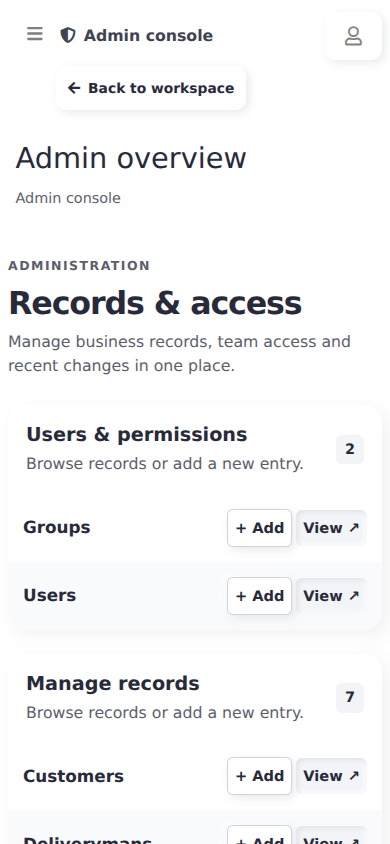
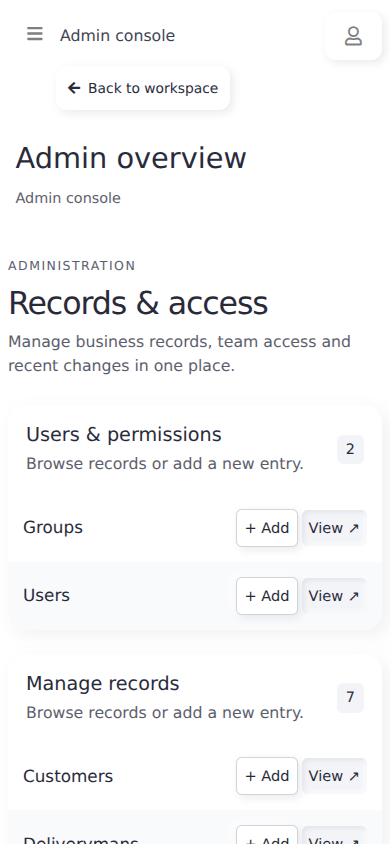
Lighten Admin typography and remove shield decoration

diff --git a/lafarge/static/css/admin_overrides.css b/lafarge/static/css/admin_overrides.css
@@ -13,6 +13,7 @@
 /* Visual theme only: retain Jazzmin's form, inline and modal behavior below. */
 body {
     font-family: var(--erp-font);
+    font-weight: 400;
     color: var(--erp-text);
 }
 :is(.content-wrapper, .app-main),
@@ -50,12 +51,12 @@ body {
 }
 :is(.content-wrapper, .app-main) .card-title,
 :is(.content-header, .app-content-header) h1 {
-    font-weight: 600;
+    font-weight: 500;
 }
 :is(.content-wrapper, .app-main) .btn,
 .login-box .btn {
     border-radius: var(--erp-control-radius);
-    font-weight: 600;
+    font-weight: 500;
 }
 :is(.content-wrapper, .app-main) .btn-primary,
 .login-box .btn-primary {
@@ -94,7 +95,7 @@ body {
 :is(.content-wrapper, .app-main) .table thead th {
     background: var(--erp-subtle);
     color: var(--erp-muted);
-    font-weight: 600;
+    font-weight: 500;
     border-color: var(--erp-border);
 }
 :is(.content-wrapper, .app-main) .table td {
@@ -232,7 +233,7 @@ body {
 :is(.main-sidebar, .app-sidebar) .brand-link {
     color: var(--erp-text) !important;
     border-color: var(--erp-border);
-    font-weight: 650;
+    font-weight: 500;
 }
 :is(.main-sidebar, .app-sidebar) :is(.nav-link, .nav-header, .user-panel a) {
     color: var(--erp-primary) !important;
@@ -308,21 +309,18 @@ body { font-size: 0.9rem; }
     color: var(--erp-text);
     font-size: 1.4rem;
     line-height: 1.2;
-    font-weight: 700 !important;
+    font-weight: 600 !important;
     letter-spacing: -0.04em;
 }
 .admin-brand-copy { display: flex; flex-direction: column; gap: 4px; }
 :is(.main-sidebar, .app-sidebar) .admin-brand-caption {
-    display: inline-flex;
-    align-items: center;
-    gap: 5px;
+    display: block;
     color: var(--erp-admin-accent);
     font-size: 0.65rem;
     line-height: 1.4;
     font-weight: 500;
     letter-spacing: 0;
 }
-.admin-brand-caption .nav-icon { width: 13px; height: 13px; flex: 0 0 13px; }
 #jazzy-sidebar > .sidebar {
     display: flex;
     flex-direction: column;
@@ -346,7 +344,7 @@ body { font-size: 0.9rem; }
     box-shadow: var(--erp-admin-raised);
     border-radius: var(--erp-control-radius);
     font-size: 0.72rem;
-    font-weight: 600;
+    font-weight: 500;
     transition: background-color 140ms ease, box-shadow 140ms ease;
 }
 .admin-workspace-return .nav-icon { width: 18px; height: 18px; flex: 0 0 18px; }
@@ -376,7 +374,7 @@ a.admin-user-link:hover { background: var(--erp-subtle); }
     border-radius: 50%;
     overflow: hidden;
     font-size: 0.72rem;
-    font-weight: 600;
+    font-weight: 500;
 }
 .admin-user-avatar img { width: 100%; height: 100%; object-fit: cover; }
 .admin-user-name { min-width: 0; overflow: hidden; text-overflow: ellipsis; white-space: nowrap; }
@@ -399,13 +397,8 @@ a.admin-user-link:hover { background: var(--erp-subtle); }
     height: auto;
     color: var(--erp-admin-accent) !important;
     font-size: 0.82rem;
-    font-weight: 650;
+    font-weight: 500;
     white-space: nowrap;
-}
-#jazzy-navbar > .navbar-nav:first-child > .nav-item:nth-child(2) > .nav-link::before {
-    content: "\f3ed";
-    font-family: "Font Awesome 5 Free";
-    font-weight: 900;
 }
 #jazzy-navbar > .navbar-nav:first-child > .nav-item:nth-child(3) > .nav-link {
     display: inline-flex;
@@ -419,7 +412,7 @@ a.admin-user-link:hover { background: var(--erp-subtle); }
     color: var(--erp-primary);
     box-shadow: var(--erp-raised);
     font-size: 0.72rem;
-    font-weight: 600;
+    font-weight: 500;
     white-space: nowrap;
 }
 #jazzy-navbar > .navbar-nav:first-child > .nav-item:nth-child(3) > .nav-link::before {
@@ -480,7 +473,7 @@ a.admin-user-link:hover { background: var(--erp-subtle); }
     white-space: normal;
     font-size: 0.61rem;
     line-height: 1.6;
-    font-weight: 600;
+    font-weight: 500;
     text-transform: uppercase;
     letter-spacing: 0.1em;
     padding: 22px 12px 8px;
@@ -499,7 +492,7 @@ a.admin-user-link:hover { background: var(--erp-subtle); }
     line-height: 1.4;
     transition: background-color 140ms ease, box-shadow 140ms ease;
 }
-:is(.main-sidebar, .app-sidebar) :is(.nav-sidebar, .sidebar-menu) .nav-link.active { font-weight: 650; }
+:is(.main-sidebar, .app-sidebar) :is(.nav-sidebar, .sidebar-menu) .nav-link.active { font-weight: 500; }
 :is(.main-sidebar, .app-sidebar) :is(.nav-sidebar, .sidebar-menu) .nav-icon {
     width: 20px;
     height: 20px;
@@ -534,7 +527,7 @@ a.admin-user-link:hover { background: var(--erp-subtle); }
 :is(.content-header, .app-content-header) { padding: 30px 24px 22px; }
 :is(.content-header, .app-content-header) :is(h1, h3) {
     font-size: 2rem;
-    font-weight: 750;
+    font-weight: 500;
     letter-spacing: -0.04em;
     color: var(--erp-text);
 }
@@ -547,7 +540,7 @@ a.admin-user-link:hover { background: var(--erp-subtle); }
 :is(.content-wrapper, .app-main) a:not(.btn):not(.nav-link) { color: var(--erp-primary); }
 :is(.content-wrapper, .app-main) .card { margin-bottom: 24px; }
 :is(.content-wrapper, .app-main) .card-body { padding: 24px; }
-:is(.content-wrapper, .app-main) .card-title { font-size: 1rem; font-weight: 700; }
+:is(.content-wrapper, .app-main) .card-title { font-size: 1rem; font-weight: 500; }
 #change-list-filters {
     background: var(--erp-surface);
     border: 0;
@@ -573,6 +566,7 @@ a.admin-user-link:hover { background: var(--erp-subtle); }
 #changelist .results { overflow-x: auto; }
 #result_list { margin-bottom: 16px; }
 #result_list thead th {
+    font-weight: 500;
     padding: 14px 16px;
     text-transform: none;
     letter-spacing: 0;
@@ -580,6 +574,7 @@ a.admin-user-link:hover { background: var(--erp-subtle); }
     border-bottom: 0;
 }
 #result_list tbody :is(td, th) {
+    font-weight: 400;
     padding: 14px 16px;
     vertical-align: middle;
     border-bottom: 0;
@@ -611,10 +606,10 @@ a.admin-user-link:hover { background: var(--erp-subtle); }
 }
 .select2-container--default .select2-selection--single .select2-selection__arrow { height: 38px; }
 .change-form :is(.form-group, .form-row) { margin-bottom: 20px; }
-.change-form label { font-size: 0.85rem; font-weight: 600; color: var(--erp-text); }
+:root .change-form label { font-size: 0.85rem; font-weight: 400; color: var(--erp-text); }
 .change-form :is(.help, .help-block, .helptext, .text-muted) { font-size: 0.78rem; color: var(--erp-muted) !important; }
 .change-form .nav-tabs { border: 0; gap: 8px; margin-bottom: 24px; }
-.change-form .nav-tabs .nav-link { padding: 12px 16px; border: 0; color: var(--erp-muted); font-weight: 600; }
+.change-form .nav-tabs .nav-link { padding: 12px 16px; border: 0; color: var(--erp-muted); font-weight: 500; }
 .change-form .nav-tabs .nav-link.active {
     color: var(--erp-primary);
     background: var(--erp-primary-soft);
@@ -667,24 +662,24 @@ a.admin-user-link:hover { background: var(--erp-subtle); }
 /* Admin landing page: permission-aware modules and a readable activity feed. */
 .admin-overview { width: 100%; min-width: 0; padding: 0 12px 28px; }
 .admin-overview-intro { display: flex; align-items: center; justify-content: space-between; flex-wrap: wrap; gap: 20px; margin: 0 0 28px; }
-.admin-eyebrow { display: block; margin-bottom: 8px; color: var(--erp-muted); font-size: 0.65rem; font-weight: 700; letter-spacing: 0.12em; text-transform: uppercase; }
-.admin-overview-intro h2 { font-size: 1.65rem; font-weight: 750; letter-spacing: -0.035em; margin: 0 0 8px; }
+.admin-eyebrow { display: block; margin-bottom: 8px; color: var(--erp-muted); font-size: 0.65rem; font-weight: 500; letter-spacing: 0.12em; text-transform: uppercase; }
+.admin-overview-intro h2 { font-size: 1.65rem; font-weight: 500; letter-spacing: -0.035em; margin: 0 0 8px; }
 .admin-overview-intro p, .admin-panel-heading p { color: var(--erp-muted); font-size: 0.82rem; margin: 0; }
 .admin-overview-grid { display: grid; grid-template-columns: minmax(0, 1.8fr) minmax(290px, 1fr); gap: 24px; align-items: start; }
 .admin-modules { display: grid; gap: 24px; min-width: 0; }
 .admin-module { min-width: 0; background: var(--erp-surface); border: 0; border-radius: var(--erp-radius); box-shadow: var(--erp-shadow); overflow: hidden; }
 .admin-panel-heading { padding: 22px; border-bottom: 0; display: flex; justify-content: space-between; align-items: center; gap: 16px; }
-.admin-panel-heading h2 { font-size: 1rem; font-weight: 700; margin: 0 0 6px; }
-.admin-count { background: var(--erp-primary-soft); color: var(--erp-primary); border-radius: 6px; font-size: 0.75rem; font-weight: 700; padding: 4px 9px; }
+.admin-panel-heading h2 { font-size: 1rem; font-weight: 500; margin: 0 0 6px; }
+.admin-count { background: var(--erp-primary-soft); color: var(--erp-primary); border-radius: 6px; font-size: 0.75rem; font-weight: 400; padding: 4px 9px; }
 .admin-model-row { display: flex; align-items: center; gap: 14px; padding: 17px 22px; border-bottom: 0; }
 .admin-model-row:nth-child(even) { background: var(--erp-subtle); }
 .admin-model-row:last-child { border-bottom: 0; }
 .admin-model-row:hover { background: var(--erp-subtle); }
-.admin-model-icon { display: grid; place-items: center; flex: 0 0 34px; height: 34px; border-radius: 7px; background: var(--erp-primary-soft); color: var(--erp-primary); font-size: 0.8rem; font-weight: 700; }
-.admin-model-name { flex: 1; min-width: 0; overflow-wrap: anywhere; font-size: 0.875rem; font-weight: 600; }
+.admin-model-icon { display: grid; place-items: center; flex: 0 0 34px; height: 34px; border-radius: 7px; background: var(--erp-primary-soft); color: var(--erp-primary); font-size: 0.8rem; font-weight: 500; }
+.admin-model-name { flex: 1; min-width: 0; overflow-wrap: anywhere; font-size: 0.875rem; font-weight: 400; }
 .admin-model-name a { color: var(--erp-text) !important; }
 .admin-model-actions { display: flex; align-items: center; gap: 10px; flex-shrink: 0; }
-.admin-model-actions a { padding: 7px 10px; border-radius: 6px; font-size: 0.76rem; font-weight: 600; white-space: nowrap; }
+.admin-model-actions a { padding: 7px 10px; border-radius: 6px; font-size: 0.76rem; font-weight: 500; white-space: nowrap; }
 .admin-add { border: 1px solid var(--erp-control-border); background: var(--erp-surface); box-shadow: var(--erp-raised); }
 .admin-browse { background: var(--erp-primary-soft); box-shadow: var(--erp-inset); }
 .admin-activity-list { list-style: none; padding: 0; margin: 0; }
@@ -692,10 +687,10 @@ a.admin-user-link:hover { background: var(--erp-subtle); }
 .admin-activity-list li + li { border-top: 1px solid var(--erp-border); }
 .admin-activity-list li:last-child { border-bottom: 0; }
 .admin-activity-meta { display: flex; flex-wrap: wrap; gap: 8px; justify-content: space-between; align-items: center; margin-bottom: 10px; }
-.admin-event { font-size: 0.65rem; font-weight: 700; color: var(--erp-primary); background: var(--erp-primary-soft); padding: 3px 7px; border-radius: 4px; }
+.admin-event { font-size: 0.65rem; font-weight: 400; color: var(--erp-primary); background: var(--erp-primary-soft); padding: 3px 7px; border-radius: 4px; }
 .admin-event-delete { color: var(--erp-danger); background: var(--erp-subtle); }
 .admin-activity-meta time { color: var(--erp-muted); font-size: 0.68rem; }
-.admin-activity-object { font-size: 0.85rem; font-weight: 600; overflow-wrap: anywhere; }
+.admin-activity-object { font-size: 0.85rem; font-weight: 400; overflow-wrap: anywhere; }
 .admin-activity-type { font-size: 0.7rem; color: var(--erp-muted); }
 .admin-activity-list p { font-size: 0.77rem; color: var(--erp-muted); line-height: 1.6; margin: 8px 0 0; overflow-wrap: anywhere; }
 .admin-empty { padding: 28px 22px; color: var(--erp-muted); font-size: 0.85rem; }
@@ -739,7 +734,7 @@ body .select2-container--admin-autocomplete .select2-selection--single .select2-
 }
 body .select2-container--default .select2-selection--multiple .select2-selection__choice { background: var(--erp-primary-soft); color: var(--erp-text); border-color: var(--erp-control-border); }
 :root .select2-container .select2-search__field:focus { border-color: var(--erp-primary) !important; }
-body :is(.errorlist, .invalid-feedback, .errornote) { color: var(--erp-text); font-weight: 600; }
+body :is(.errorlist, .invalid-feedback, .errornote) { color: var(--erp-text); font-weight: 500; }
 body :is(.form-control, input, select, textarea).is-invalid { border-color: var(--erp-text); background-image: none; }
 body .errorlist { border-left: 3px solid var(--erp-text); padding-left: 12px; }
 body .input-group-text { background: var(--erp-subtle); color: var(--erp-muted); border-color: var(--erp-control-border); }
@@ -760,6 +755,10 @@ body .selector :is(select, .selector-filter) { border-color: var(--erp-control-b
 body .content-wrapper > .content.border-bottom { border-bottom: 0 !important; }
 body .content-wrapper h1.border-right { border-right: 0 !important; }
 body .main-footer { border: 0; }
+/* Keep native emphasis and vendor form-label rules at a readable, lighter weight. */
+:root body :is(b, strong, .font-weight-bold, .font-weight-bolder, dt) { font-weight: 500 !important; }
+:root .login-box label { font-weight: 400; }
+:root .select2-selection__rendered { font-weight: 400; }
 /* Long save labels and navigation headings stay readable at the larger text size. */
 #jazzy-actions { padding-inline: 16px; }
 #jazzy-actions .btn { padding-inline: 8px; height: auto; min-height: 44px; white-space: normal; }

diff --git a/lafarge/templates/admin/includes/navigation_icon.html b/lafarge/templates/admin/includes/navigation_icon.html
@@ -1,7 +1,7 @@
 <svg class="nav-icon" width="20" height="20" viewBox="0 0 24 24" fill="none" stroke="currentColor" stroke-width="1.7" stroke-linecap="round" stroke-linejoin="round" aria-hidden="true" focusable="false">
 {% if icon == 'auth.user' %}
     <circle cx="12" cy="8" r="3.5"/><path d="M5 21v-2a7 7 0 0 1 14 0v2"/>
-{% elif icon == 'auth.group' %}
+{% elif icon == 'auth.group' or icon == 'auth' %}
     <circle cx="9" cy="7.5" r="3.5"/><path d="M2.5 21v-2a6.5 6.5 0 0 1 13 0v2M16 4.2a3.5 3.5 0 0 1 0 6.6M18 14.5a5 5 0 0 1 3.5 4.8V21"/>
 {% elif icon == 'invoice.customer' %}
     <rect x="2.5" y="4" width="19" height="16" rx="2.5"/><circle cx="8.5" cy="10" r="2"/><path d="M5 17a3.5 3.5 0 0 1 7 0M16 8h3M16 12h3M16 16h3"/>
@@ -17,8 +17,6 @@
     <path d="m12 3 9 5v8l-9 5-9-5V8l9-5ZM3 8l9 5 9-5M12 13v8M7.5 5.5l9 5"/>
 {% elif icon == 'invoice.salesman' %}
     <rect x="4" y="3" width="16" height="18" rx="2.5"/><circle cx="12" cy="9" r="2.5"/><path d="M7.5 17a4.5 4.5 0 0 1 9 0"/>
-{% elif icon == 'auth' %}
-    <path d="m12 3-7.5 3v6c0 4.4 3.2 7.2 7.5 9 4.3-1.8 7.5-4.6 7.5-9V6L12 3Z"/>
 {% elif icon == 'workspace' %}
     <path d="M20 12H4m6-6-6 6 6 6"/>
 {% else %}

diff --git a/lafarge/templates/admin/includes/sidebar.html b/lafarge/templates/admin/includes/sidebar.html
@@ -5,7 +5,7 @@
         <img src="{% static jazzmin_settings.site_logo %}" alt="" class="{{ jazzmin_settings.site_logo_classes }} brand-image">
         <span class="admin-brand-copy">
             <span class="brand-text font-weight-light">{{ jazzmin_settings.site_brand }}</span>
-            <span class="admin-brand-caption">{% include "admin/includes/navigation_icon.html" with icon="auth" only %}{% trans "Admin console" %}</span>
+            <span class="admin-brand-caption">{% trans "Admin console" %}</span>
         </span>
     </a>
     <div class="sidebar">

diff --git a/lafarge/invoice/templates/invoice/components/navigation.html b/lafarge/invoice/templates/invoice/components/navigation.html
@@ -41,7 +41,7 @@
 {% endif %}
 <div class="nav-group"><div class="nav-caption">Administration</div>
 <a href="{% url 'admin:index' %}" class="nav-item nav-area-switch">
-    <i class="bi bi-shield-lock" aria-hidden="true"></i><span>Open admin</span>
+    <i class="bi bi-grid" aria-hidden="true"></i><span>Open admin</span>
 </a>
 </div>
 {% endwith %}
